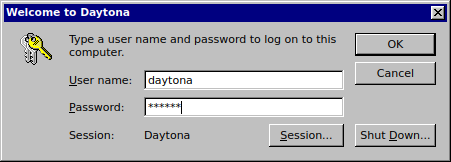
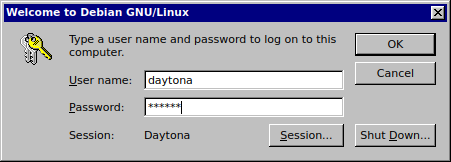
Greeter and Start menu: name the operating system, not Daytona (#32)
* Add daytona-greeter, an optional Windows 98-style log on screen for greetd

A separate package (daytona only Suggests it): a Qt greetd greeter run in
its own labwc, with User name, Password, Session... and Shut Down...,
the full PAM conversation (prompts and messages), the last user and
session remembered, and the system keyboard layout. README and
docs/greeter.md explain how to switch to it from another login manager.

Closes #22

Claude-Session: https://claude.ai/code/session_01UGvqVJsV31Yji5CySNfewP

* Greeter: --scale for high-density screens

daytona-greeter --scale 2 (1 to 3, fractions and percentages allowed)
gives every screen that scale through wlr-output-management, including
screens plugged in later, so labwc's frames and the pointer follow.
Set in greetd's config.toml command.

Claude-Session: https://claude.ai/code/session_01UGvqVJsV31Yji5CySNfewP

* Greeter: welcome to the operating system by name

The log on dialog's title is "Welcome to <NAME>" from os-release
("Welcome to Debian GNU/Linux"), as Windows' "Welcome to Windows",
with the specification's default "Linux" when there is none.

Claude-Session: https://claude.ai/code/session_01UGvqVJsV31Yji5CySNfewP

* Start menu: show the operating system's name in the banner

The banner read "Daytona"; like NT's "Windows NT", it now shows
os-release's NAME ("Debian GNU/Linux"), "Linux" without one, cut short
with an ellipsis if the menu is too short.
[…]

Changed region(s): [[0.1863, 0.0309, 0.4346, 0.1235]]

diff --git a/shell/startmenu.cpp b/shell/startmenu.cpp
@@ -8,6 +8,7 @@
 #include "daytonastyle.h"
 #include "recentdocuments.h"
 #include "settings.h"
+#include "systemlogo.h"
 
 #include <LayerShellQt/Window>
 #include <QCoreApplication>
@@ -81,6 +82,7 @@ StartMenu::StartMenu(ApplicationIndex *index, Settings *settings, QWidget *paren
     : QWidget(parent, Qt::Window | Qt::FramelessWindowHint)
     , m_index(index)
     , m_settings(settings)
+    , m_bannerText(systemName())
 {
     setAccessibleName(tr("Start menu"));
     setMouseTracking(true);
@@ -253,7 +255,8 @@ void StartMenu::paintEvent(QPaintEvent *)
     }
 
     // NT's banner: a dark strip inside the frame with the product name
-    // reading upwards from the bottom.
+    // ("Windows NT") reading upwards from the bottom; here the operating
+    // system's, cut short with "..." if the menu is too short for it.
     const int frame = style()->pixelMetric(QStyle::PM_MenuPanelWidth, nullptr, this);
     const QRect banner(frame, frame, BannerWidth, height() - 2 * frame);
     painter.fillRect(banner, pal.color(QPalette::Dark));
@@ -264,8 +267,9 @@ void StartMenu::paintEvent(QPaintEvent *)
     painter.setPen(pal.color(QPalette::Light));
     painter.translate(banner.left(), banner.bottom());
     painter.rotate(-90);
-    painter.drawText(QRect(4, 0, banner.height() - 8, banner.width()),
-        Qt::AlignLeft | Qt::AlignVCenter, QStringLiteral("Daytona"));
+    const QRect text(4, 0, banner.height() - 8, banner.width());
+    painter.drawText(text, Qt::AlignLeft | Qt::AlignVCenter,
+        painter.fontMetrics().elidedText(m_bannerText, Qt::ElideRight, text.width()));
 }
 
 void StartMenu::setCurrent(int index)

diff --git a/tests/tst_greeter.cpp b/tests/tst_greeter.cpp
@@ -7,6 +7,7 @@
 #include "greeter.h"
 #include "keyboard.h"
 #include "logonui.h"
+#include "osrelease.h"
 #include "scale.h"
 #include "sessions.h"
 
@@ -143,6 +144,7 @@ private Q_SLOTS:
     void splitExec();
     void keyboardDefaults();
     void scale();
+    void osName();
 
 private:
     void logOnAs(const QString &user, const QString &password);
@@ -524,6 +526,33 @@ void TestGreeter::scale()
     QCOMPARE(parseScale("big"), 0.0);
     QCOMPARE(parseScale("nan"), 0.0);
     QCOMPARE(parseScale(""), 0.0);
+}
+
+void TestGreeter::osName()
+{
+    QTemporaryDir root;
+    QVERIFY(root.isValid());
+    // No os-release: the specification's default.
+    QCOMPARE(operatingSystemName(root.path()), QString("Linux"));
+
+    QDir(root.path()).mkpath("usr/lib");
+    QFile lib(root.filePath("usr/lib/os-release"));
+    QVERIFY(lib.open(QIODevice::WriteOnly));
+    lib.write(
+        "PRETTY_NAME=\"Debian GNU/Linux 13 (trixie)\"\nNAME=\"Debian GNU/Linux\"\nID=debian\n");
+    lib.close();
+    QCOMPARE(operatingSystemName(root.path()), QString("Debian GNU/Linux"));
+
+    // /etc/os-release wins.
+    QDir(root.path()).mkpath("etc");
+    QFile etc(root.filePath("etc/os-release"));
+    QVERIFY(etc.open(QIODevice::WriteOnly));
+    etc.write("# comment\nNAME=Ubuntu\nVERSION_ID='25.04'\n");
+    etc.close();
+    QCOMPARE(operatingSystemName(root.path()), QString("Ubuntu"));
+
+    QVERIFY(m_greeter->dialog()->windowTitle().startsWith("Welcome to "));
+    QCOMPARE(m_greeter->dialog()->windowTitle(), "Welcome to " + operatingSystemName());
 }
 
 QTEST_MAIN(TestGreeter)

diff --git a/greeter/osrelease.cpp b/greeter/osrelease.cpp
@@ -1,0 +1,39 @@
+// SPDX-License-Identifier: GPL-3.0-or-later
+
+#include "osrelease.h"
+
+#include <QFile>
+
+namespace Daytona {
+
+QString operatingSystemName(const QString &root)
+{
+    for (const char *path : { "/etc/os-release", "/usr/lib/os-release" }) {
+        QFile file(root + QLatin1String(path));
+        if (!file.open(QIODevice::ReadOnly | QIODevice::Text))
+            continue;
+        while (!file.atEnd()) {
+            const QString line = QString::fromUtf8(file.readLine()).trimmed();
+            if (!line.startsWith(QLatin1String("NAME=")))
+                continue;
+            QString value = line.mid(5).trimmed();
+            if (value.size() >= 2
+                && (value.front() == QLatin1Char('"') || value.front() == QLatin1Char('\''))
+                && value.back() == value.front()) {
+                value = value.mid(1, value.size() - 2);
+                // Shell escapes in double quotes.
+                for (const QChar c :
+                    { QLatin1Char('\\'), QLatin1Char('$'), QLatin1Char('"'), QLatin1Char('`') })
+                    value.replace(QStringLiteral("\\") + c, QString(c));
+            }
+            value = value.trimmed();
+            if (!value.isEmpty())
+                return value;
+        }
+        // The first file found is the one that counts, NAME or not.
+        break;
+    }
+    return QStringLiteral("Linux");
+}
+
+} // namespace Daytona

diff --git a/tests/tst_systemlogo.cpp b/tests/tst_systemlogo.cpp
@@ -34,6 +34,21 @@ private Q_SLOTS:
         QCOMPARE(fields.size(), 4);
     }
 
+    void name()
+    {
+        // The Start menu banner's text.
+        QTemporaryDir empty;
+        QCOMPARE(systemName(empty.path()), QStringLiteral("Linux"));
+        QTemporaryDir debian;
+        write(debian, "usr/lib/os-release", "NAME=\"Debian GNU/Linux\"\nID=debian\n");
+        QCOMPARE(systemName(debian.path()), QStringLiteral("Debian GNU/Linux"));
+        write(debian, "etc/os-release", "NAME=Ubuntu\n");
+        QCOMPARE(systemName(debian.path()), QStringLiteral("Ubuntu"));
+        QTemporaryDir noName;
+        write(noName, "etc/os-release", "ID=x\nNAME=\"\"\n");
+        QCOMPARE(systemName(noName.path()), QStringLiteral("Linux"));
+    }
+
     void logoFromOsRelease()
     {
         // A distribution that names its logo (as Ubuntu, Fedora and Arch do).

diff --git a/shell/startmenu.h b/shell/startmenu.h
@@ -63,6 +63,7 @@ public:
     bool justClosed() const;
 
     const QList<Item> &items() const { return m_items; }
+    QString bannerText() const { return m_bannerText; }
     int currentIndex() const { return m_current; }
     QMenu *programsMenu() const { return m_programs; }
     QMenu *documentsMenu() const { return m_documents; }
@@ -123,6 +124,8 @@ private:
     ApplicationIndex *m_index;
     Settings *m_settings;
     QList<Item> m_items;
+    // The banner's text: the operating system's name.
+    QString m_bannerText;
     QMenu *m_programs;
     QMenu *m_documents;
     QMenu *m_settingsMenu;

diff --git a/greeter/logonui.cpp b/greeter/logonui.cpp
@@ -2,6 +2,8 @@
 
 #include "logonui.h"
 
+#include "osrelease.h"
+
 #include <QCloseEvent>
 #include <QGridLayout>
 #include <QHBoxLayout>
@@ -45,7 +47,8 @@ namespace {
 LogonDialog::LogonDialog(QWidget *parent)
     : QDialog(parent)
 {
-    setWindowTitle(tr("Welcome to Daytona"));
+    // The operating system's name, as Windows' "Welcome to Windows".
+    setWindowTitle(tr("Welcome to %1").arg(operatingSystemName()));
 
     auto *intro = new QLabel(tr("Type a user name and password to log on to this computer."), this);
     intro->setWordWrap(true);

diff --git a/shell/systemlogo.h b/shell/systemlogo.h
@@ -12,6 +12,11 @@ namespace Daytona {
 // quoted), as in /etc/os-release.
 QHash<QString, QString> parseOsRelease(const QString &text);
 
+// The operating system's name, os-release's NAME ("Debian GNU/Linux"), or
+// "Linux", the specification's default, without one. The Start menu's
+// banner shows it, as NT's showed "Windows NT". root as for systemLogo().
+QString systemName(const QString &root = QString());
+
 // The operating system's own logo, for the Start button, as NT's Start
 // button showed its own system's logo:
 //

diff --git a/greeter/osrelease.h b/greeter/osrelease.h
@@ -1,0 +1,15 @@
+// SPDX-License-Identifier: GPL-3.0-or-later
+
+#pragma once
+
+#include <QString>
+
+namespace Daytona {
+
+// The operating system's name, os-release's NAME ("Debian GNU/Linux",
+// "Ubuntu"), from root/etc/os-release or root/usr/lib/os-release; "Linux",
+// the specification's default, without one. The log on dialog welcomes the
+// user to it, as Windows' welcomed them to Windows.
+QString operatingSystemName(const QString &root = QString());
+
+} // namespace Daytona

diff --git a/shell/systemlogo.cpp b/shell/systemlogo.cpp
@@ -99,6 +99,13 @@ QHash<QString, QString> parseOsRelease(const QString &text)
     return fields;
 }
 
+QString systemName(const QString &root)
+{
+    const QString name
+        = parseOsRelease(readOsRelease(root)).value(QStringLiteral("NAME")).trimmed();
+    return name.isEmpty() ? QStringLiteral("Linux") : name;
+}
+
 QIcon systemLogo(const QString &root)
 {
     const QHash<QString, QString> release = parseOsRelease(readOsRelease(root));

diff --git a/AGENT.md b/AGENT.md
@@ -117,7 +117,7 @@ The desktop follows the Windows NT 4.0 WIMP interaction model, with the addition
 * the taskbar starts at the bottom; when unlocked it can be dragged to any edge of its screen, and when locked it cannot be moved or resized (see Taskbar Placement)
 * the Start button is on the left
 * the notification area and clock are on the right
-* the Start menu opens from the Start button towards the centre of the screen (upward when the taskbar is at the bottom) with a vertical banner and cascading submenus
+* the Start menu opens from the Start button towards the centre of the screen (upward when the taskbar is at the bottom) with a vertical banner (the operating system's name from os-release, as NT's showed "Windows NT") and cascading submenus
 * each normal top-level window has one taskbar button, in launch order
 * clicking a taskbar button activates the window; clicking the button of the active window minimises it
 * right-clicking a taskbar button shows the window menu (Restore, Move, Size, Minimise, Maximise, Close)

diff --git a/docs/greeter.md b/docs/greeter.md
@@ -4,7 +4,9 @@
 its own package: `daytona` only suggests it, so installing Daytona never changes your login
 manager, and you can keep GDM, SDDM, LightDM or any other.
 
-It is a Windows 98-style dialog on the desktop colour: **User name**, **Password**, the session
+It is a Windows 98-style dialog on the desktop colour, welcoming you to the operating system by
+its name (os-release's `NAME`, such as "Welcome to Debian GNU/Linux", as Windows said "Welcome to
+Windows"): **User name**, **Password**, the session
 to start with a **Session...** button to choose another, **OK**, **Cancel** (which clears both
 fields) and **Shut Down...**. It remembers the last user name and session, puts the cursor in
 Password, and uses the computer's keyboard layout, so a password is typed the same way as on the

diff --git a/README.md b/README.md
@@ -74,7 +74,7 @@ screen in Display Properties > Settings > Font Size; see [docs/hidpi.md](docs/hi
 
 ### Log on screen (optional)
 
-![The Welcome to Daytona log on dialog, with user name, password, session and Shut Down](docs/screenshots/greeter.png)
+![The "Welcome to Debian GNU/Linux" log on dialog, with user name, password, session and Shut Down](docs/screenshots/greeter.png)
 
 `daytona-greeter` is an optional Windows 98-style log on screen for greetd, with a session
 chooser and Shut Down; see [Optional: the Daytona log on screen](#optional-the-daytona-log-on-screen).
